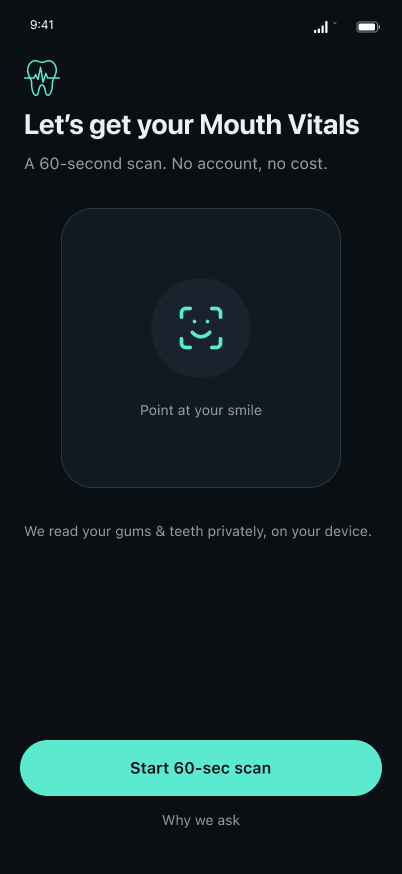
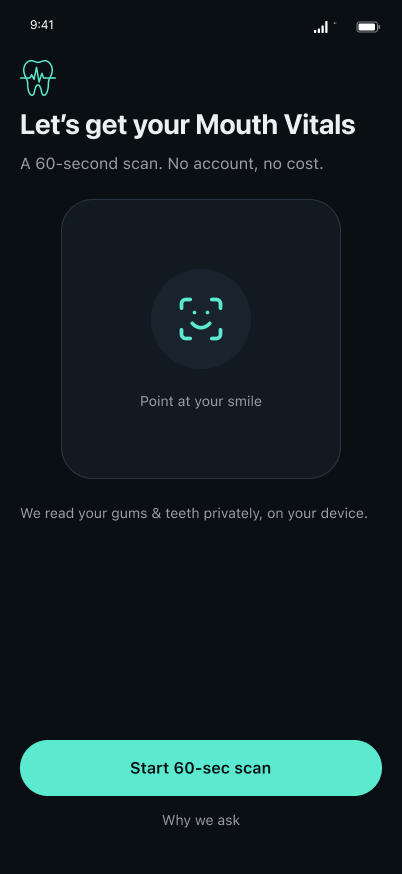
Align Onboarding screen to the 20px grid (re-export)
Onboarding content used 24px side margins while every other screen + the
pinned CTAs use 20px, so its title/body didn't line up across screens.
Set it to 20px, aligned the brand-mark logo to the same edge, tightened
the vertical rhythm. Bump ASSET_V 12 → 13.

diff --git a/index.html b/index.html
@@ -7,22 +7,22 @@
   <meta name="description" content="Mouth Vitals — a free, holistic mouth-body companion. Interactive hi-fi prototype for Docter & Gambit (Project DH)." />
   <meta name="theme-color" content="#070A0E" />
   <meta name="color-scheme" content="dark" />
-  <link rel="icon" href="assets/icon.svg?v=12" />
-  <link rel="apple-touch-icon" href="assets/icon.svg?v=12" />
+  <link rel="icon" href="assets/icon.svg?v=13" />
+  <link rel="apple-touch-icon" href="assets/icon.svg?v=13" />
   <meta property="og:type" content="website" />
   <meta property="og:title" content="Mouth Vitals — interactive prototype" />
   <meta property="og:description" content="A free, holistic mouth-body companion. Tap through the hi-fi flow." />
   <meta property="og:url" content="https://docter-gambit-app.ontwrpn.com/" />
   <meta property="og:image" content="https://docter-gambit-app.ontwrpn.com/assets/score.png" />
   <meta name="twitter:card" content="summary_large_image" />
-  <link rel="stylesheet" href="styles.css?v=12" />
+  <link rel="stylesheet" href="styles.css?v=13" />
 </head>
 <body>
   <div class="bg" aria-hidden="true"></div>
 
   <main class="hero">
     <header class="intro">
-      <div class="brand"><img class="brand__mark" src="assets/mark.svg?v=12" alt="" aria-hidden="true" /> Mouth Vitals</div>
+      <div class="brand"><img class="brand__mark" src="assets/mark.svg?v=13" alt="" aria-hidden="true" /> Mouth Vitals</div>
       <h1 class="title">Dental care, reframed as a <span>relationship</span>.</h1>
       <p class="lede">A free, holistic mouth-body companion for Docter &amp; Gambit. Tap through the interactive hi-fi prototype.</p>
       <ul class="chips" aria-label="Highlights">
@@ -41,7 +41,7 @@
           <span class="phone__side phone__side--vol1" aria-hidden="true"></span>
           <span class="phone__side phone__side--vol2" aria-hidden="true"></span>
           <div class="phone__screen">
-            <img class="screen__img" id="screenImg" src="assets/onboarding.png?v=12" alt="App screen"
+            <img class="screen__img" id="screenImg" src="assets/onboarding.png?v=13" alt="App screen"
                  width="402" height="874" decoding="async" fetchpriority="high" draggable="false" />
             <div class="hotspots" id="hotspots"></div>
           </div>
@@ -63,6 +63,6 @@
     </div>
   </main>
 
-  <script src="app.js?v=12"></script>
+  <script src="app.js?v=13"></script>
 </body>
 </html>

diff --git a/app.js b/app.js
@@ -1,7 +1,7 @@
 // Mouth Vitals — interactive prototype navigation
 // Bump ASSET_V whenever the screen PNGs change so browsers fetch fresh art
 // (nginx caches png/js for 7d; the query string busts that cache).
-const ASSET_V = "12";
+const ASSET_V = "13";
 const v = (p) => `${p}?v=${ASSET_V}`;
 const SCREENS = [
   { id: "onboarding", img: v("assets/onboarding.png"), label: "Onboarding",
